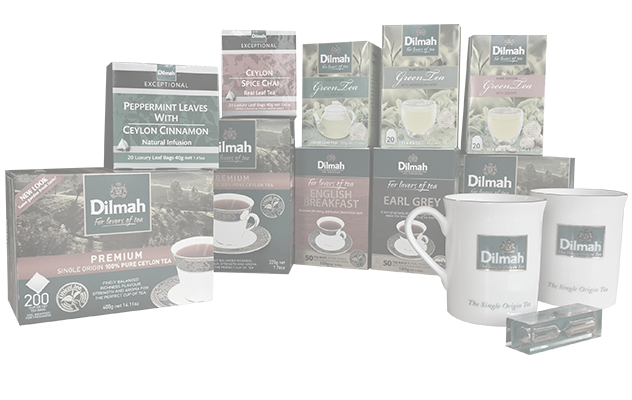
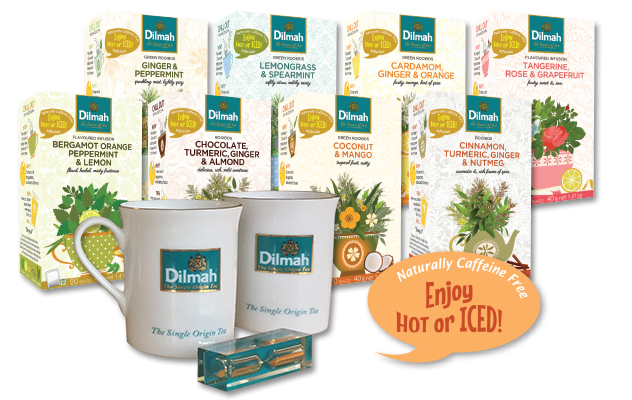
new pack shots

diff --git a/index.html b/index.html
@@ -23,7 +23,7 @@
 
     <img src="img/win_infusion_sa.png" class="img-responsive center-block" title="Be In To Win A Dilmah Goody Bag" alt="Be In To Win A Dilmah Goody Bag">
  <!-- <h1>BE IN TO WIN</h1>A DILMAH GOODY BAG</h2> -->
-  <h4>Across the NZ Blackcaps vs. South Africa Test Match Series<br/>Each Goody Bag valued at $85</h4>
+  <h4>Across the NZ Blackcaps vs. South Africa Test Match Series<br /><br /></h4>
 
 
    </div> <!-- PRIZE PACK ENDS -->
@@ -74,7 +74,7 @@
      <select id="---" name="---" class="form-control">
          <option value="">-- Please Choose an Option --</option>
          <option value="---">Merill J. Fernando</option>
-         <option value="---">Michael J. Fox/option>
+         <option value="---">Michael J. Fox</option>
          <option value="---">Homer J. Simpson</option>
      </select>
  </div>

diff --git a/thanks.html b/thanks.html
@@ -19,13 +19,13 @@
   <div class="container">
   <div class="row background">
   <div class="col-md-10 col-md-offset-1 prizepack">
-    <img src="img/win_thanks.png" class= "img-responsive center-block" title="your entry has been successful - good luck">
+    <img src="img/win_thanks_sa.png" class= "img-responsive center-block" title="your entry has been successful - good luck">
 <!-- HEADER AS TEXT - NOT THIS TIME -->
 <!--  <h1>THANK YOU</h1><h4>&nbsp;</h4> -->
 
    </div> <!-- PRIZE PACK ENDS -->
   <div class=" col-md-12 packshot">
-  <img src="img/prizepack_ii.png" class="img-responsive">
+  <img src="img/prizepack_iii.png" class="img-responsive">
   <h4 class="thankyou">YOUR ENTRY HAS BEEN SUCCESSFUL - GOOD LUCK</h4>
   </div> <!-- PACK SHOT ENDS -->
    <!--FORMHOLDEREND-->

diff --git a/css/teaparty.css b/css/teaparty.css
@@ -1,5 +1,5 @@
 .background {
-	background-image:url(../img/bg_2017_v2.jpg);
+	background-image:url(../img/bg_2017_v3_SA.jpg);
 	background-position:center top;
 	background-repeat:no-repeat;
 
@@ -63,7 +63,7 @@ h3 {
 }
 .prizepack h1 { font-size:54px; margin-bottom: -20px; margin-top: 0px}
 
-.prizepack h4 { font-size: 16px; line-height: 1.4em}
+.prizepack h4 { font-size: 16px; line-height: 1.4em; color: #c56c84;}
 
 .packshot img {
 	margin: 0 auto;
